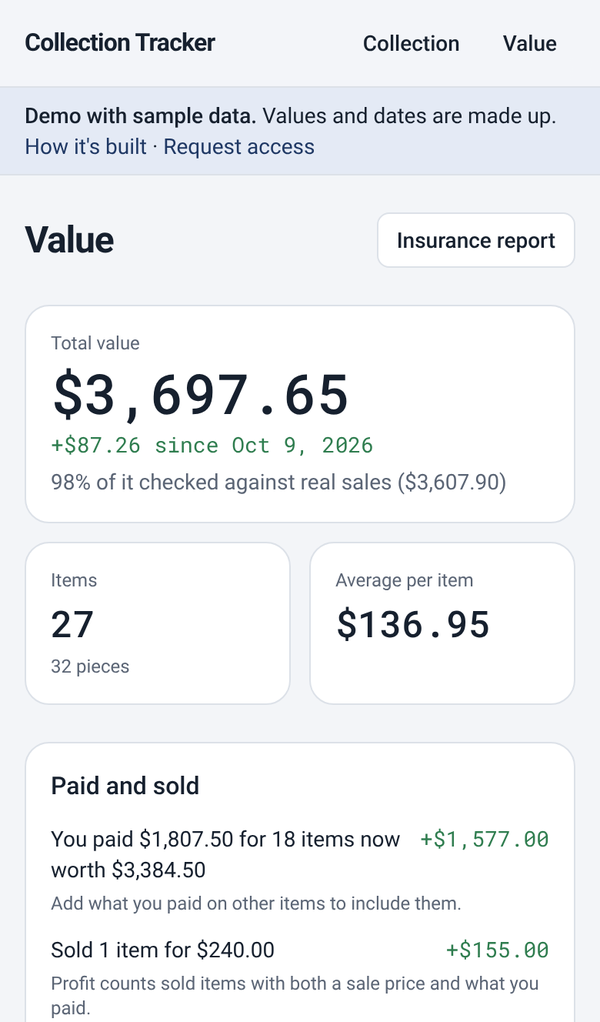
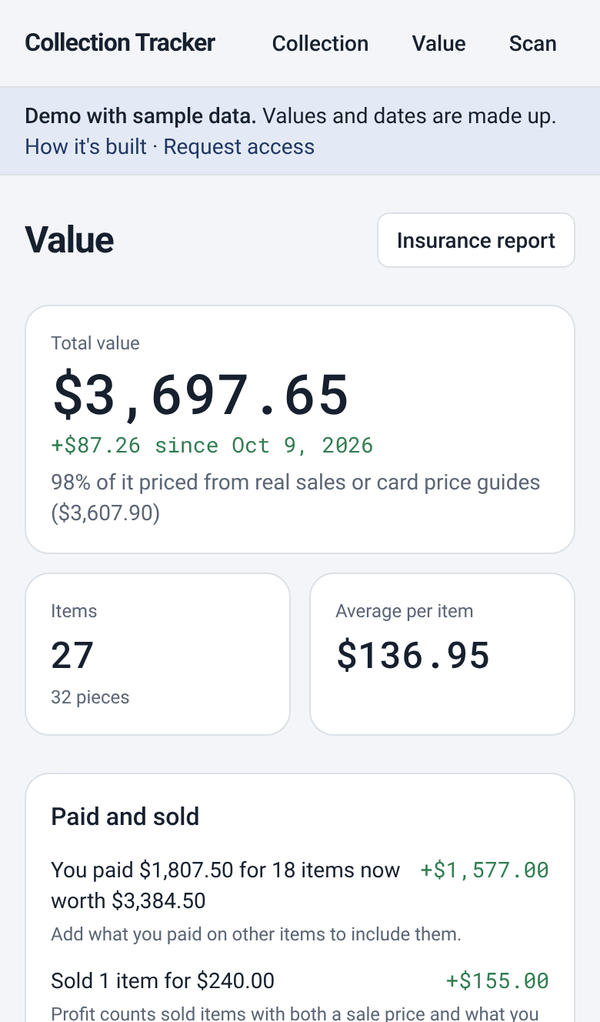
Full check: tests, wording, docs, an index migration
- Tests for identifying scans by kind (identifyAuto) and the demo scanner's matching (60 tests).
- Migration 0011: indexes on photos.user_id and price_checks.user_id (Supabase performance advisor).
- Wording that still described the old flow: empty states point to Add, the estimate note and the
  manual-add message mention free morning card prices, the Value summary says real sales or card
  price guides, the demo description mentions the scanner.
- README: sign-in warning steps, Privacy and Terms files, tests list, migrations through 0011,
  fresh screenshots. Setup prompt mentions the optional eBay keys.
- Lint warning removed.

Claude-Session: https://claude.ai/code/session_01GaN5E56FUZHSLSdE9K7VNY

diff --git a/tests/ebay-identify.test.ts b/tests/ebay-identify.test.ts
@@ -1,7 +1,7 @@
 import assert from "node:assert/strict";
 import { test } from "node:test";
 import { matchingListings, median } from "../src/lib/ebay";
-import { identifyScan } from "../src/lib/identify";
+import { identifyAuto, identifyScan } from "../src/lib/identify";
 
 const card = { name: "Michael Jordan", details: { Year: "1990", "Brand / Set": "Fleer", "Card #": "26", Grade: "" } };
 const listing = (title: string, value: number) => ({ title, price: { value: String(value), currency: "USD" } });
@@ -53,4 +53,51 @@ test("a sports card back becomes a row with a Check this note when parts are mis
   assert.equal(c!.details["Brand / Set"], "Upper Deck");
   assert.equal(c!.problem, "couldn't read the card number from the back");
   assert.equal(c!.condition, "Raw");
+});
+
+test("works out the kind of card from the text, then matches it (Scan page default)", async () => {
+  const calls: string[] = [];
+  const fake = (async (url: string) => {
+    calls.push(String(url));
+    return new Response(
+      JSON.stringify({ id: "abc", name: "Ragavan, Nimble Pilferer", set: "mh2", set_name: "Modern Horizons 2", collector_number: "138", rarity: "mythic", released_at: "2021-06-18", prices: { usd: "46.10" } }),
+      { status: 200 },
+    );
+  }) as typeof fetch;
+  const r = await identifyAuto(
+    {
+      front: [
+        { text: "Ragavan, Nimble Pilferer", height: 20, y: 0 },
+        { text: "Legendary Creature — Monkey Pirate", height: 12, y: 300 },
+        { text: "138/303 M", height: 10, y: 500 },
+        { text: "MH2 • EN Illus. Simon Dominic", height: 10, y: 520 },
+        { text: "™ & © 2021 Wizards of the Coast", height: 10, y: 540 },
+      ],
+      back: [],
+      hasBack: false,
+    },
+    fake,
+  );
+  assert.equal(r.kind, "magic");
+  assert.equal(calls[0], "https://api.scryfall.com/cards/mh2/138");
+  assert.equal(r.candidates[0]!.name, "Ragavan, Nimble Pilferer");
+});
+
+test("with no clear signs, a card with a back is read as a sports card", async () => {
+  const noFetch = (async () => {
+    throw new Error("no network in this test");
+  }) as unknown as typeof fetch;
+  const r = await identifyAuto({ front: [], back: [{ text: "KEN GRIFFEY JR.", height: 30, y: 0 }], hasBack: true }, noFetch);
+  assert.equal(r.kind, "sports");
+  assert.equal(r.candidates[0]!.name, "Ken Griffey Jr.");
+});
+
+test("with no clear signs and no back, the selector's kind is used", async () => {
+  const calls: string[] = [];
+  const fake = (async (url: string) => {
+    calls.push(String(url));
+    return new Response(JSON.stringify({ data: [] }), { status: 200 });
+  }) as typeof fetch;
+  await identifyAuto({ front: [{ text: "Charizard", height: 30, y: 0 }], back: [], hasBack: false, hint: "pokemon" }, fake);
+  assert.ok(calls.some((u) => u.includes("pokemontcg.io")), calls.join(", "));
 });

diff --git a/tests/demo-scan.test.ts b/tests/demo-scan.test.ts
@@ -1,0 +1,18 @@
+import assert from "node:assert/strict";
+import { test } from "node:test";
+import { demoItemFor, demoMatch } from "../src/lib/demo-scan";
+
+const L = (...t: string[]) => t.map((text, i) => ({ text, height: 20, y: i * 30 }));
+
+test("each sample card on the demo Scan page stands for a demo item with a price", () => {
+  for (const name of ["Ken Griffey Jr.", "Charizard", "Sol Ring"]) {
+    const item = demoItemFor(name);
+    assert.ok(item, name);
+    assert.ok(item.market_value && item.market_value > 0, `${name} has a price`);
+  }
+});
+
+test("text read from a real camera matches a demo item when its name is printed", () => {
+  assert.equal(demoMatch(L("KEN GRIFFEY JR.", "UPPER DECK"))?.name, "Ken Griffey Jr.");
+  assert.equal(demoMatch(L("Something else entirely")), undefined);
+});

diff --git a/src/app/(app)/collection/page.tsx b/src/app/(app)/collection/page.tsx
@@ -76,7 +76,7 @@ export default async function CollectionPage({ searchParams }: { searchParams: P
           )}
         </section>
       ) : items.length === 0 ? (
-        <EmptyState title="No items yet" body="Items you add with Collection Intake, or type into the sheet, show up here after a sync.">
+        <EmptyState title="No items yet" body="Items you scan with Add, or type into the sheet, show up here.">
           <Link href="/scan" className="mt-1 inline-flex min-h-11 items-center rounded-xl bg-navy px-5 font-medium text-navy-ink no-underline">
             Add an item
           </Link>

diff --git a/src/app/(app)/items/[id]/page.tsx b/src/app/(app)/items/[id]/page.tsx
@@ -127,7 +127,7 @@ export default async function ItemPage({ params }: { params: Promise<{ id: strin
         )}
         {item.value_status === "estimate" && (
           <p className="text-sm rounded-lg bg-clay-soft text-clay-ink px-3 py-2">
-            This value isn&apos;t checked against real sales yet. Claude prices it in the nightly run at 3:30 AM.
+            This value isn&apos;t checked yet. Trading cards get a free price each morning; everything else is priced from real sales in Claude&apos;s nightly run at 3:30 AM.
           </p>
         )}
         {history.length > 0 && (

diff --git a/src/app/(app)/collection/[slug]/page.tsx b/src/app/(app)/collection/[slug]/page.tsx
@@ -72,7 +72,7 @@ export default async function CategoryPage({
       </div>
 
       {all.length === 0 ? (
-        <EmptyState title={`No ${category.name} yet`} body="Add items with Collection Intake, or type them into this tab of your sheet.">
+        <EmptyState title={`No ${category.name} yet`} body="Scan items with Add, or type them into this tab of your sheet.">
           <Link href="/scan" className="mt-1 inline-flex min-h-11 items-center rounded-xl bg-navy px-5 font-medium text-navy-ink no-underline">
             Add an item
           </Link>

diff --git a/src/components/item-form.tsx b/src/components/item-form.tsx
@@ -252,7 +252,7 @@ export function ItemForm({ mode, itemId, initial }: { mode: "edit" | "add"; item
 
       <p className="text-xs text-muted">
         {mode === "add"
-          ? "Saved as a new row in your sheet. Claude's nightly price check (3:30 AM) prices it from real sales."
+          ? "Saved as a new row in your sheet. Tap Check price now for a free card price, or it's priced overnight."
           : "Saved to your sheet. Changing the value marks it as set by hand, so the scheduled check leaves it until it's due again."}
       </p>
 

diff --git a/src/app/demo/layout.tsx b/src/app/demo/layout.tsx
@@ -2,7 +2,7 @@ import Link from "next/link";
 
 export const metadata = {
   title: "Demo · Collection Tracker",
-  description: "A sample collection in Collection Tracker: values checked against real sales, price history, profit, and grading candidates.",
+  description: "A sample collection in Collection Tracker: a scanner you can try, values from real sales and card price guides, price history, profit, and grading candidates.",
 };
 
 const tab = "min-h-9 inline-flex items-center rounded-full px-3 text-sm font-medium no-underline";

diff --git a/src/components/value-dashboard.tsx b/src/components/value-dashboard.tsx
@@ -88,7 +88,7 @@ export function ValueDashboard({
             </span>
           )}
           <span className="text-sm text-muted">
-            {verifiedShare}% of it checked against real sales ({money(t.verified)})
+            {verifiedShare}% of it priced from real sales or card price guides ({money(t.verified)})
           </span>
         </div>
         <div className="rounded-2xl bg-surface border border-line p-4 flex flex-col gap-1">

diff --git a/src/lib/supabase/env.ts b/src/lib/supabase/env.ts
@@ -9,7 +9,7 @@ export function supabaseConfigured(): boolean {
 /**
  * Google access requested at sign-in:
  * - spreadsheets: read and update the Collection Tracker sheet
- * - drive.readonly: show the photos Collection Intake saved to Drive
+ * - drive.readonly: show the photos the sheet links to, including ones Claude's nightly run saved to Drive
  */
 export const GOOGLE_SCOPES = [
   "https://www.googleapis.com/auth/spreadsheets",

diff --git a/src/lib/demo-scan.ts b/src/lib/demo-scan.ts
@@ -177,7 +177,6 @@ export function sampleCamera(opts: { wantBack: () => boolean; captures: () => nu
   };
   const draw = () => {
     const now = performance.now();
-    const sample = SAMPLES[index % SAMPLES.length]!;
     // The scanner took this side: lift the card a moment later.
     if (side && opts.captures() !== seen && !takenAt) takenAt = now;
     if (side && takenAt && now - takenAt > 500) {

diff --git a/README.md b/README.md
@@ -59,7 +59,7 @@ Paste [`claude/SETUP.md`](claude/SETUP.md) into a new Claude conversation, after
 ### 2. Supabase
 
 1. Create a project at [supabase.com](https://supabase.com). Under **Security**: keep **Enable Data API** on, turn **Automatically expose new tables** off, turn **Enable automatic RLS** on.
-2. **SQL Editor:** run the files in [`supabase/migrations/`](supabase/migrations) in order, `0001` through `0010`. Skip this if Claude already ran them in step 1 with the Supabase connector.
+2. **SQL Editor:** run the files in [`supabase/migrations/`](supabase/migrations) in order, `0001` through `0011`. Skip this if Claude already ran them in step 1 with the Supabase connector.
 3. **Settings > API Keys:** copy the project URL, a publishable key, and a secret key.
 
 ### 3. Google Cloud
@@ -102,7 +102,7 @@ To use a different `.vercel.app` address, add it under **Settings > Domains**. T
 
 ### 6. First sign-in
 
-Open your Vercel address and sign in with Google. You'll see "Google hasn't verified this app": choose **Continue** and allow access. The setup checklist opens: paste the sheet and Collection Intake links from step 1 and save. The first sync starts on its own.
+Open your Vercel address and sign in with Google. You'll see "Google hasn't verified this app": tap **Advanced**, then **Go to** your app, and allow access with every box checked. The setup checklist opens: paste the sheet and Collection Intake links from step 1 and save. The first sync starts on its own.
 
 ## Adding people
 
@@ -149,12 +149,13 @@ For local sign-in, also add `http://localhost:3000` to the Google client's JavaS
 | `src/components/insurance-report.tsx` | The printable insurance report, shared with the demo |
 | `src/lib/paged.ts` | Reads past Supabase's 1,000-row limit |
 | `src/lib/access.ts` | Owners, invites, and roles |
+| `src/app/privacy/`, `src/app/terms/` | The Privacy Policy and Terms of Service that Google's Branding page links to |
 | `src/lib/shares.ts`, `src/app/s/` | Share links and the public view-only pages |
 | `src/app/api/` | Sync, daily sync and pricing, scanning, item edit/delete/reprice/price/photos, settings, export, access requests, admin, account deletion, photo previews |
 | `supabase/migrations/` | Tables: items, photos, price_checks, value_snapshots, settings, google_tokens, members, access_requests, shares |
 | `claude/` | Setup prompt, Collection Intake page, and the background task prompt (`price-check.md`) |
 | `vercel.json` | Daily sync schedule, and a redirect from this deployment's old address (safe to remove in a fork) |
-| `tests/` | Unit tests for row parsing, card text and card-type detection, item outlining, price lookups, repricing rules, access and share rules, collection math, and CSV export |
+| `tests/` | Unit tests for row parsing, card text and card-type detection, identifying scans, item outlining, the demo scanner, price lookups, repricing rules, access and share rules, collection math, and CSV export |
 
 ## Security
 

diff --git a/claude/SETUP.md b/claude/SETUP.md
@@ -50,4 +50,4 @@ Set up my Collection Tracker. Use the Google Sheets, Google Drive, Gmail, Supaba
 
    If you can't use a browser, skip this step (README step 3).
 
-8. **Finish** by giving me the sheet's link and the Collection Intake link, to paste into the web app's Settings page. Say whether the database is set up, give me the Vercel address if you created the project, and list which secrets I still need to add myself and where.
+8. **Finish** by giving me the sheet's link and the Collection Intake link, to paste into the web app's Settings page. Say whether the database is set up, give me the Vercel address if you created the project, and list which secrets I still need to add myself and where, including the optional eBay keys for sports card asking prices (README step 4).
